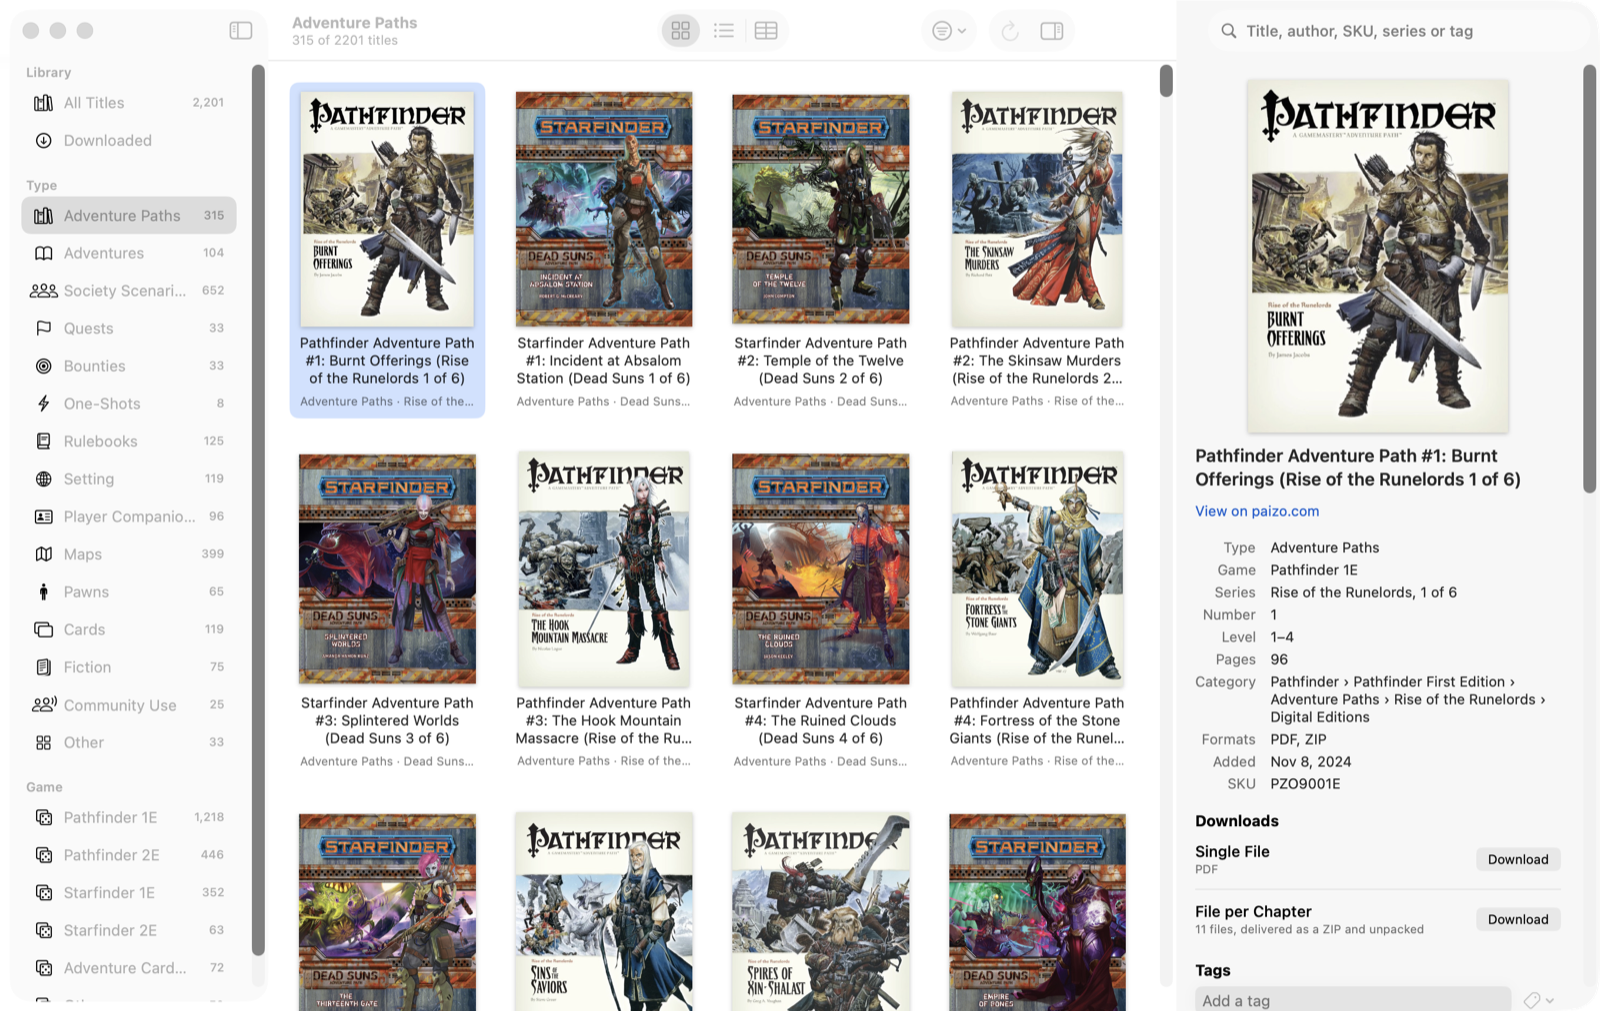
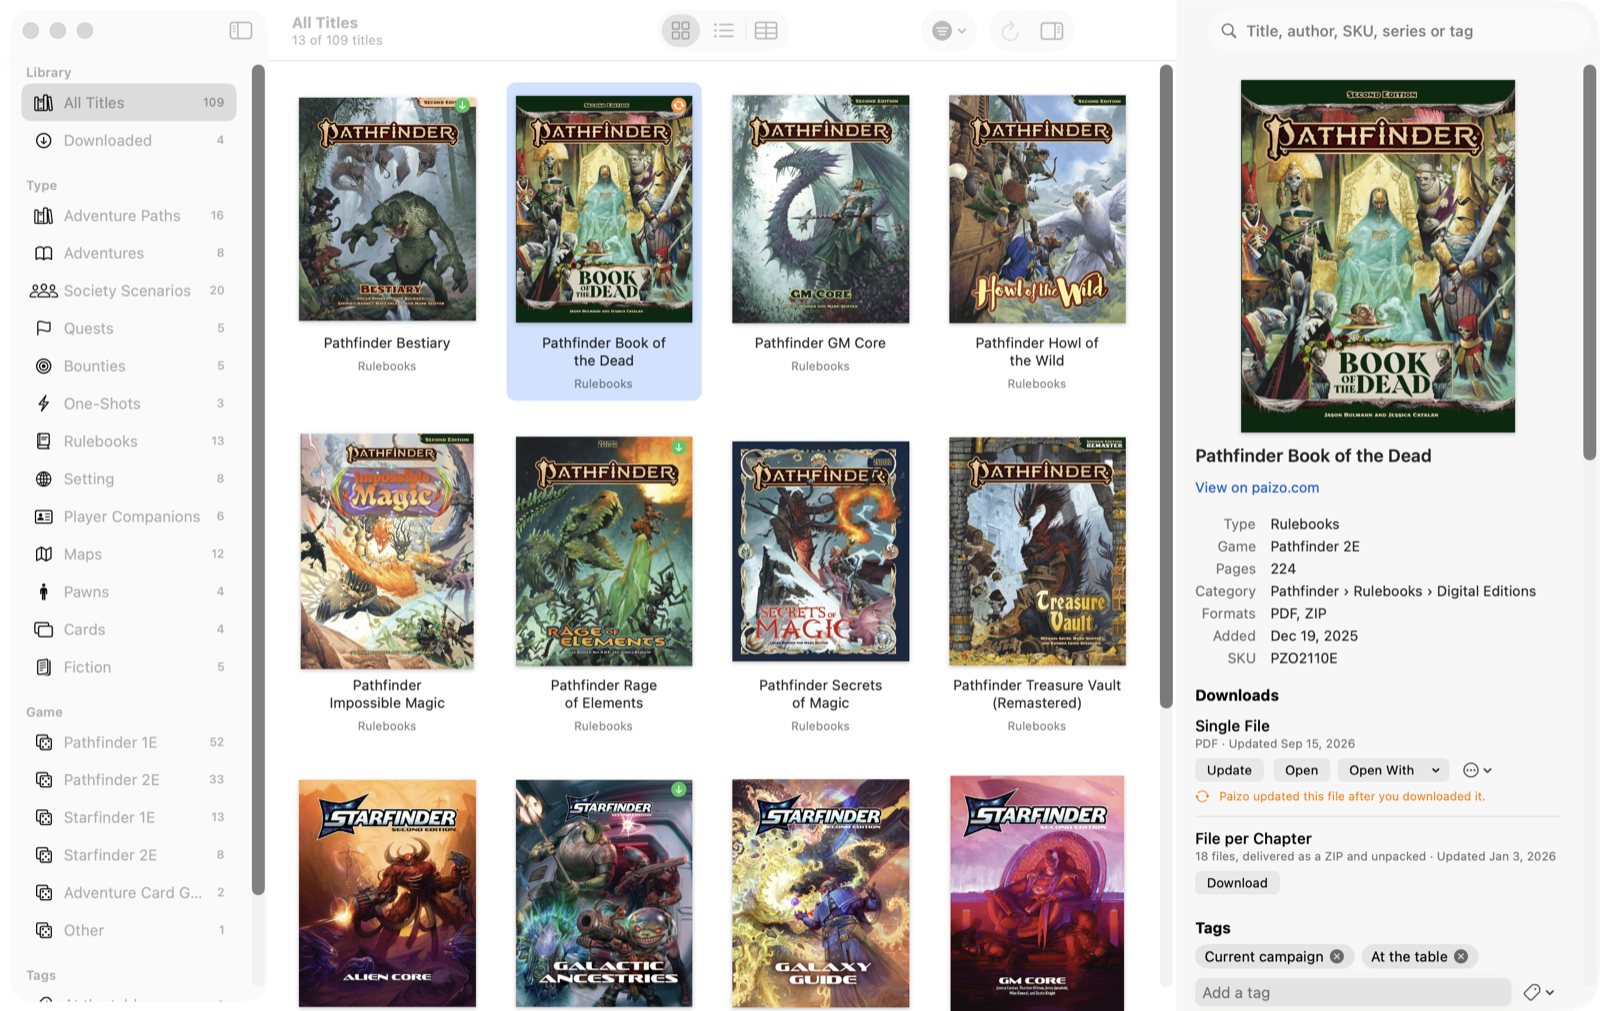
docs: Updating screenshot

diff --git a/README.md b/README.md
@@ -19,7 +19,7 @@ summaries and tags.
 It is free, and it only accesses files that your own account is entitled to
 download.
 
-![Scrollkeeper on the Mac: adventure paths shown as covers, with the details of the selected title](docs/images/mac-library.png)
+![Scrollkeeper on the Mac: rulebooks shown as covers, with the details of the selected title](docs/images/mac-library.png)
 
 ## Features
 
